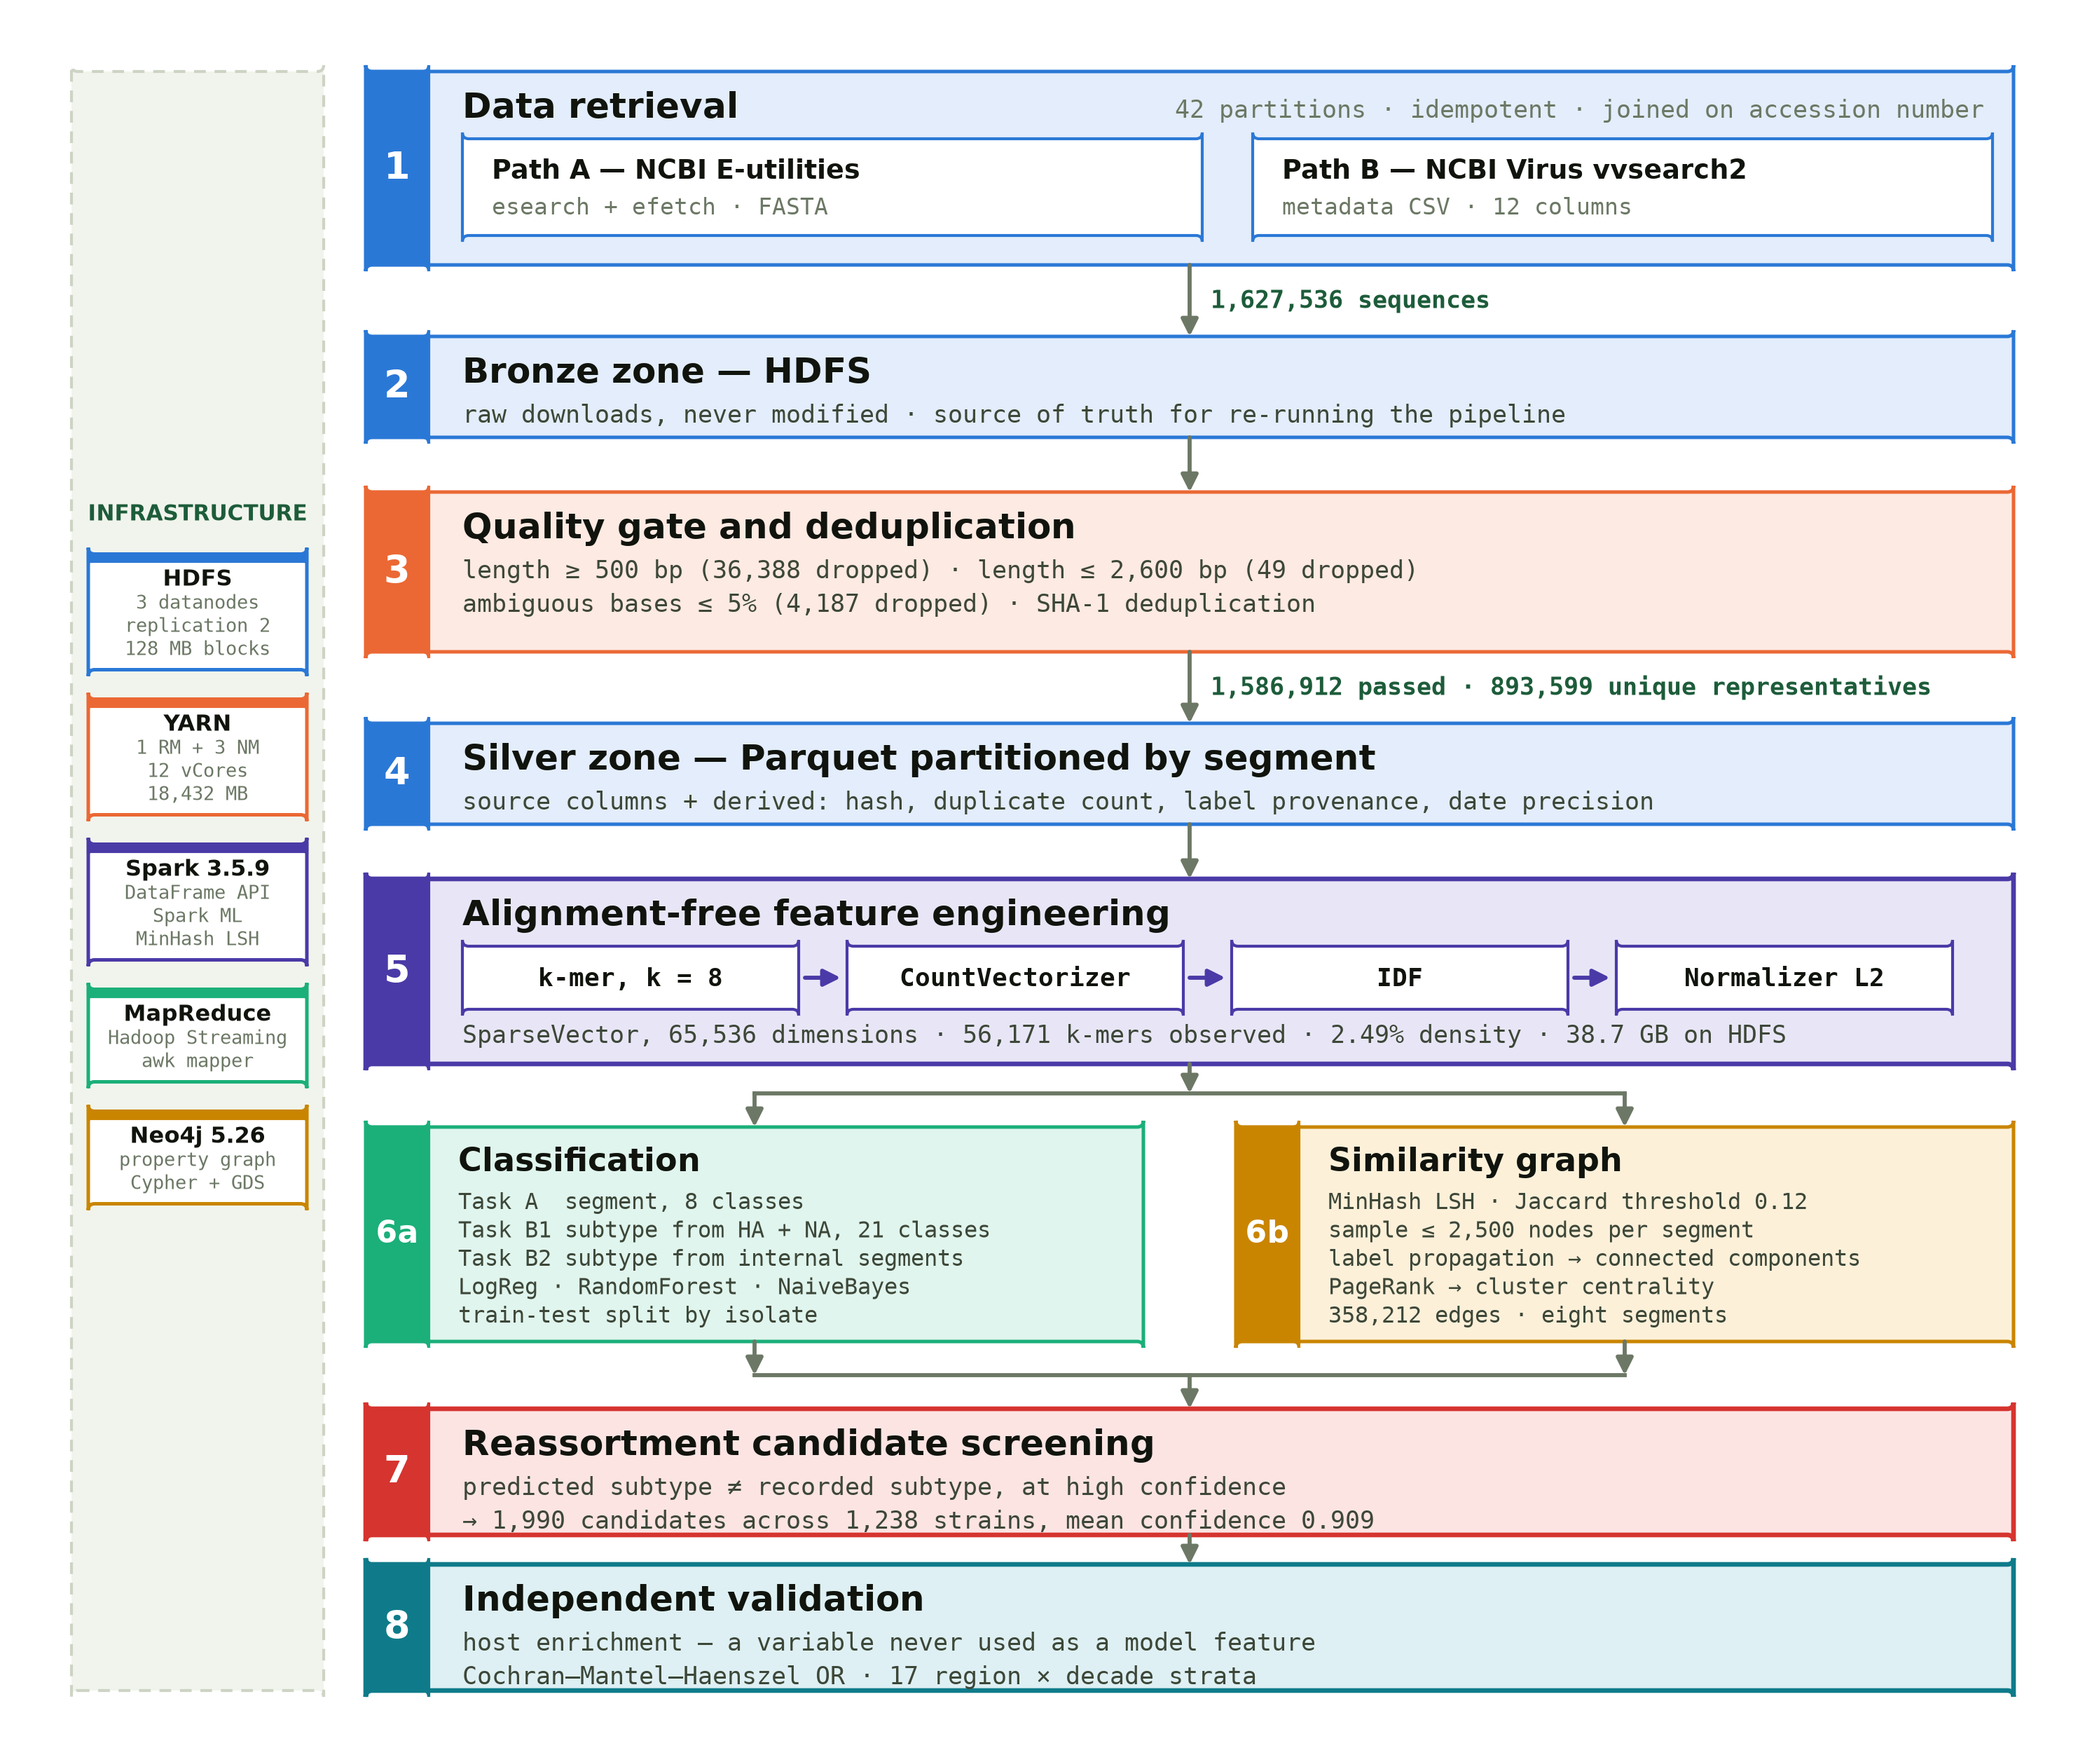
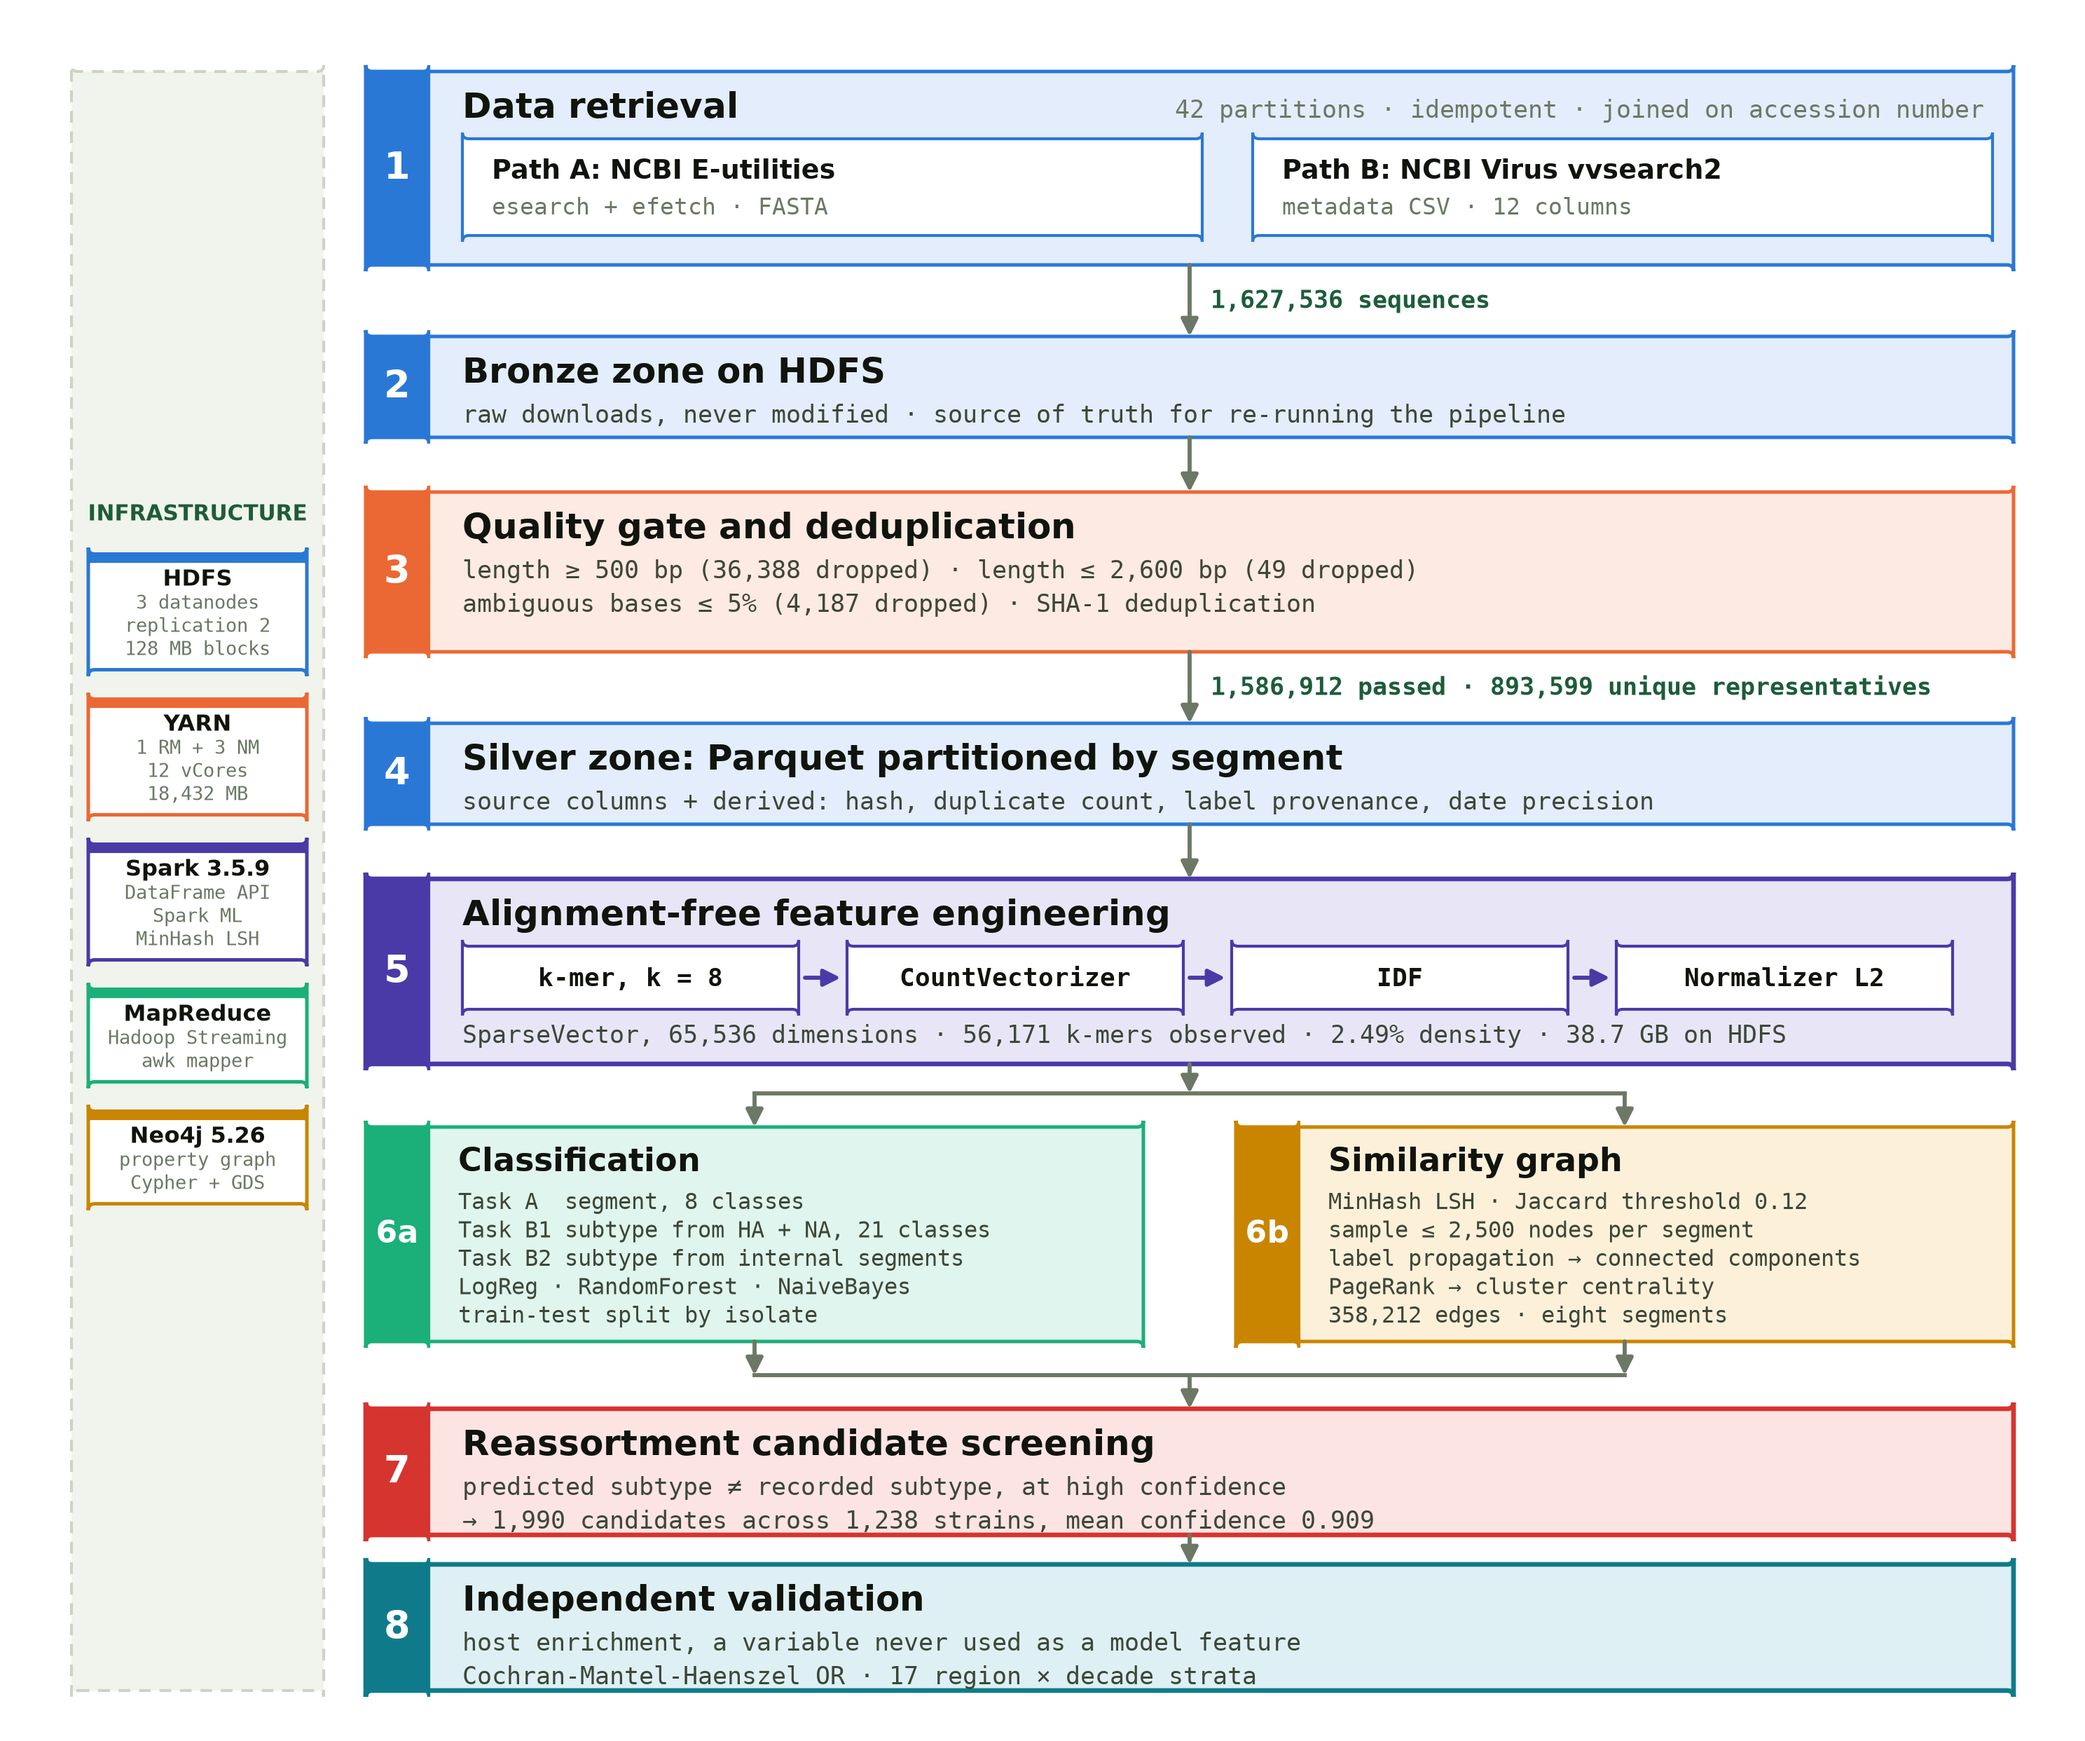
Em dash dibuang dari naskah dan gambar
Tanda panjang kerap dipakai pendeteksi teks mesin sebagai penanda, sehingga
seluruhnya dihilangkan. Kalimat yang memakai em dash berpasangan ditulis ulang
memakai titik dua, koma, atau kalimat terpisah, bukan sekadar tanda bacanya
diganti, supaya tata bahasanya tetap benar.

Caption memakai titik sebagai pemisah, sesuai gaya jurnal. Rentang halaman pada
daftar pustaka memakai tanda hubung, dan dua judul paper yang aslinya memuat em
dash ditulis dengan tanda baca biasa sehingga tetap dapat ditelusuri.

diff --git a/naskah/buat_gambar_metodologi.py b/naskah/buat_gambar_metodologi.py
@@ -145,9 +145,9 @@ def gambar():
     teks(ax, R - 14, y + 22, "42 partitions · idempotent · "
          "joined on accession number", 8.5, TINTA_3, font=FM, rata="right")
     for dx, judul, ket in [
-            (0, "Path A — NCBI E-utilities",
+            (0, "Path A: NCBI E-utilities",
              "esearch + efetch · FASTA"),
-            (376, "Path B — NCBI Virus vvsearch2",
+            (376, "Path B: NCBI Virus vvsearch2",
              "metadata CSV · 12 columns")]:
         kotak(ax, L + 46 + dx, y + 32, 352, 46, isi=PUTIH, tepi=BIRU)
         teks(ax, L + 60 + dx, y + 51, judul, 9, TINTA, "bold", muat=324)
@@ -156,7 +156,7 @@ def gambar():
 
     # ── 2. zona bronze ────────────────────────────────────────────────
     y = 146
-    tahap(ax, "2", "Bronze zone — HDFS", y, 48,
+    tahap(ax, "2", "Bronze zone on HDFS", y, 48,
           ["raw downloads, never modified · source of truth for "
            "re-running the pipeline"], rona=BIRU, isi=BIRU_BG)
     aliran(y + 48, y + 48 + 26)
@@ -173,7 +173,7 @@ def gambar():
 
     # ── 4. zona silver ────────────────────────────────────────────────
     y = 330
-    tahap(ax, "4", "Silver zone — Parquet partitioned by segment", y, 48,
+    tahap(ax, "4", "Silver zone: Parquet partitioned by segment", y, 48,
           ["source columns + derived: hash, duplicate count, label "
            "provenance, date precision"], rona=BIRU, isi=BIRU_BG)
     aliran(y + 48, y + 48 + 26)
@@ -249,9 +249,9 @@ def gambar():
     # ── 8. validasi ───────────────────────────────────────────────────
     y = 730
     tahap(ax, "8", "Independent validation", y, 60,
-          ["host enrichment — a variable never used as a model "
+          ["host enrichment, a variable never used as a model "
            "feature",
-           "Cochran–Mantel–Haenszel OR · 17 region × decade "
+           "Cochran-Mantel-Haenszel OR · 17 region × decade "
            "strata"],
           rona=TOSCA, isi=TOSCA_BG, tebal=1.6)
 

diff --git a/naskah/buat_gambar_hasil.py b/naskah/buat_gambar_hasil.py
@@ -234,7 +234,7 @@ uk = INS["klaster_ukuran"]
 urut = ["2 - 5", "6 - 20", "21 - 100", "> 100"]
 pet = {u["ember"]: u["count"] for u in uk}
 nilai2 = [pet.get(u, 0) for u in urut]
-nama2 = ["2–5", "6–20", "21–100", "> 100"]
+nama2 = ["2-5", "6-20", "21-100", "> 100"]
 ax[1].bar(range(4), nilai2, color=[D3, D4, D2, D8], width=.6)
 for i, v in enumerate(nilai2):
     ax[1].text(i, v + 18, ribu(v), ha="center", fontsize=7.6, color=TINTA_2)
@@ -290,7 +290,7 @@ ax[1].set_yticklabels(["%s %s" % (s["wil"], int(s["dekade"])) for s in st],
 ax[1].set_xscale("log")
 ax[1].set_xlim(.4, 400)
 ax[1].grid(axis="y", visible=False)
-ax[1].text(.02, .97, "Pooled Mantel–Haenszel OR\n10.86  (95% CI 9.69–12.17)",
+ax[1].text(.02, .97, "Pooled Mantel-Haenszel OR\n10.86  (95% CI 9.69 to 12.17)",
            transform=ax[1].transAxes, fontsize=7.4, color=D8,
            fontweight="bold", va="top", ha="left",
            bbox=dict(boxstyle="round,pad=0.3", facecolor=PUTIH,
